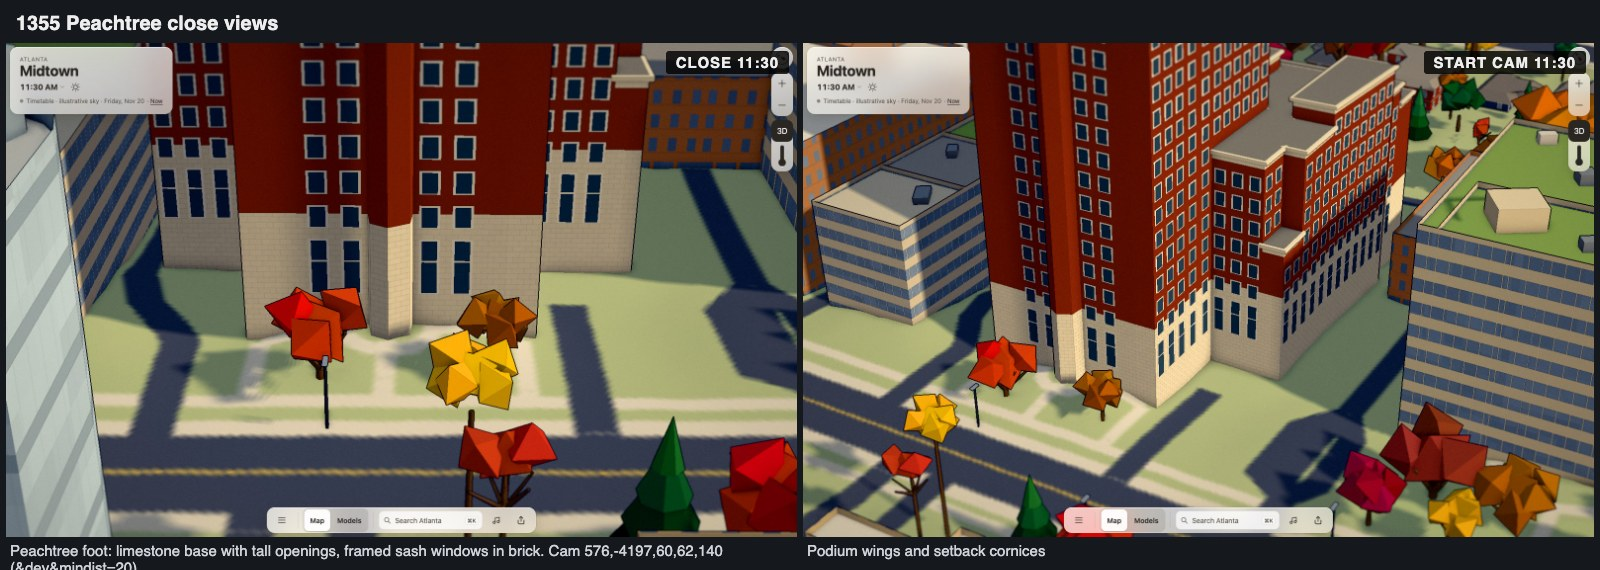
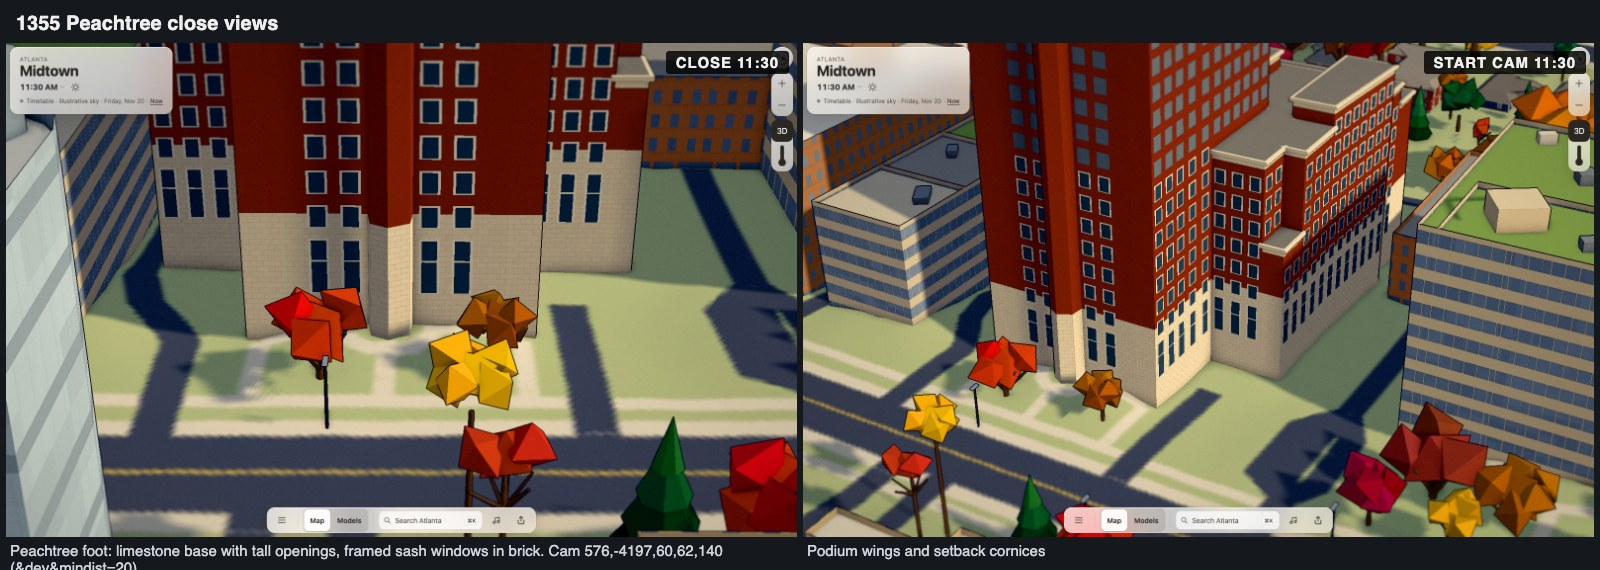
Merge 1355 shaft windows into single quads and refresh the captures

Changed region(s): [[0.625, 0.0596, 0.8125, 0.2982]]

diff --git a/web/src/city/peachtree-1355.ts b/web/src/city/peachtree-1355.ts
@@ -27,7 +27,7 @@ const crownEave = 72.6, crownRidge = 77.1; // lidar p50 74.8, max 77.1: a pitche
 const limestoneTop = 13.2; // the pale classical base: three storeys
 const storey = 3.6;
 
-const brick = '#8c4636', cream = '#e3dac6', glass = '#4e5d66', frame = '#ece8de';
+const brick = '#8c4636', cream = '#e3dac6', glass = '#4e5d66', frame = '#ece8de', shaftWindow = '#7b858a';
 
 export function create1355Peachtree(buildings: VBuilding[], site: VBuilding, grid: GroundGrid) {
   const rings = parts.map(([id]) => site.parts?.find(p => p.id === id)?.rings[0]?.map(([x, z]): P2 => [x - origin[0], z - origin[1]]));
@@ -78,12 +78,16 @@ export function create1355Peachtree(buildings: VBuilding[], site: VBuilding, gri
           const p = along(a, b, length, u - w / 2, 0.06 * out), q = along(a, b, length, u + w / 2, 0.06 * out);
           const pf = along(a, b, length, u - w / 2 - 0.28, 0.04 * out), qf = along(a, b, length, u + w / 2 + 0.28, 0.04 * out);
           const y1 = y + (tall ? 3.4 : 2.1);
-          shell.paint(FLAT, () => body.quad([pf[0], y - 0.15, pf[1]], [pf[0], y1 + 0.2, pf[1]], [qf[0], y1 + 0.2, qf[1]], [qf[0], y - 0.15, qf[1]], frame));
+          // White frames read only from street views; on the shaft the window is one quad in a
+          // frame-and-glass mean tone, which halves its triangles.
+          const framed = y < floor + 36;
+          if (framed) shell.paint(FLAT, () => body.quad([pf[0], y - 0.15, pf[1]], [pf[0], y1 + 0.2, pf[1]], [qf[0], y1 + 0.2, qf[1]], [qf[0], y - 0.15, qf[1]], frame));
           // Offices at 23:30: about one window in twelve still lit, in small clusters.
           const lit = random() < 0.085;
           const target = lit ? lights : body;
-          (lit ? (f: () => void) => f() : (f: () => void) => shell.paint(FLAT, f))(() =>
-            target.quad([p[0], y, p[1]], [p[0], y1, p[1]], [q[0], y1, q[1]], [q[0], y, q[1]], glass));
+          (lit ? (f: () => void) => f() : (f: () => void) => shell.paint(FLAT, f))(() => void (
+            framed ? target.quad([p[0], y, p[1]], [p[0], y1, p[1]], [q[0], y1, q[1]], [q[0], y, q[1]], glass)
+              : target.quad([pf[0], y - 0.1, pf[1]], [pf[0], y1 + 0.15, pf[1]], [qf[0], y1 + 0.15, qf[1]], [qf[0], y - 0.1, qf[1]], shaftWindow)));
         }
       }
     });

diff --git a/docs/log/ui/1355-peachtree/README.md b/docs/log/ui/1355-peachtree/README.md
@@ -25,7 +25,7 @@ The two 3.6 m entrance parts (`…139`, `…142`) are not drawn.
 
 ## Model
 
-The walls use the library's brick and limestone surfaces, and the crown roof is slate. Biltmore and the other Midtown landmarks already compile that painted program. The window glass and frames stay flat inside the painted walls. Lit windows are in the lamp mesh, which receives shadows so the windows match by day.
+The walls use the library's brick and limestone surfaces, and the crown roof is slate. Biltmore and the other Midtown landmarks already compile that painted program. The window glass and frames stay flat inside the painted walls. Framed windows (glass plus a white frame) stop at the podium line. On the shaft, each window is one quad in a frame-and-glass mean tone, which halves its triangles: 3,916 in all. Lit windows are in the lamp mesh, which receives shadows so the windows match by day.
 
 | View | Camera | Local time, 20 November 2026 | Capture |
 |---|---|---|---|
